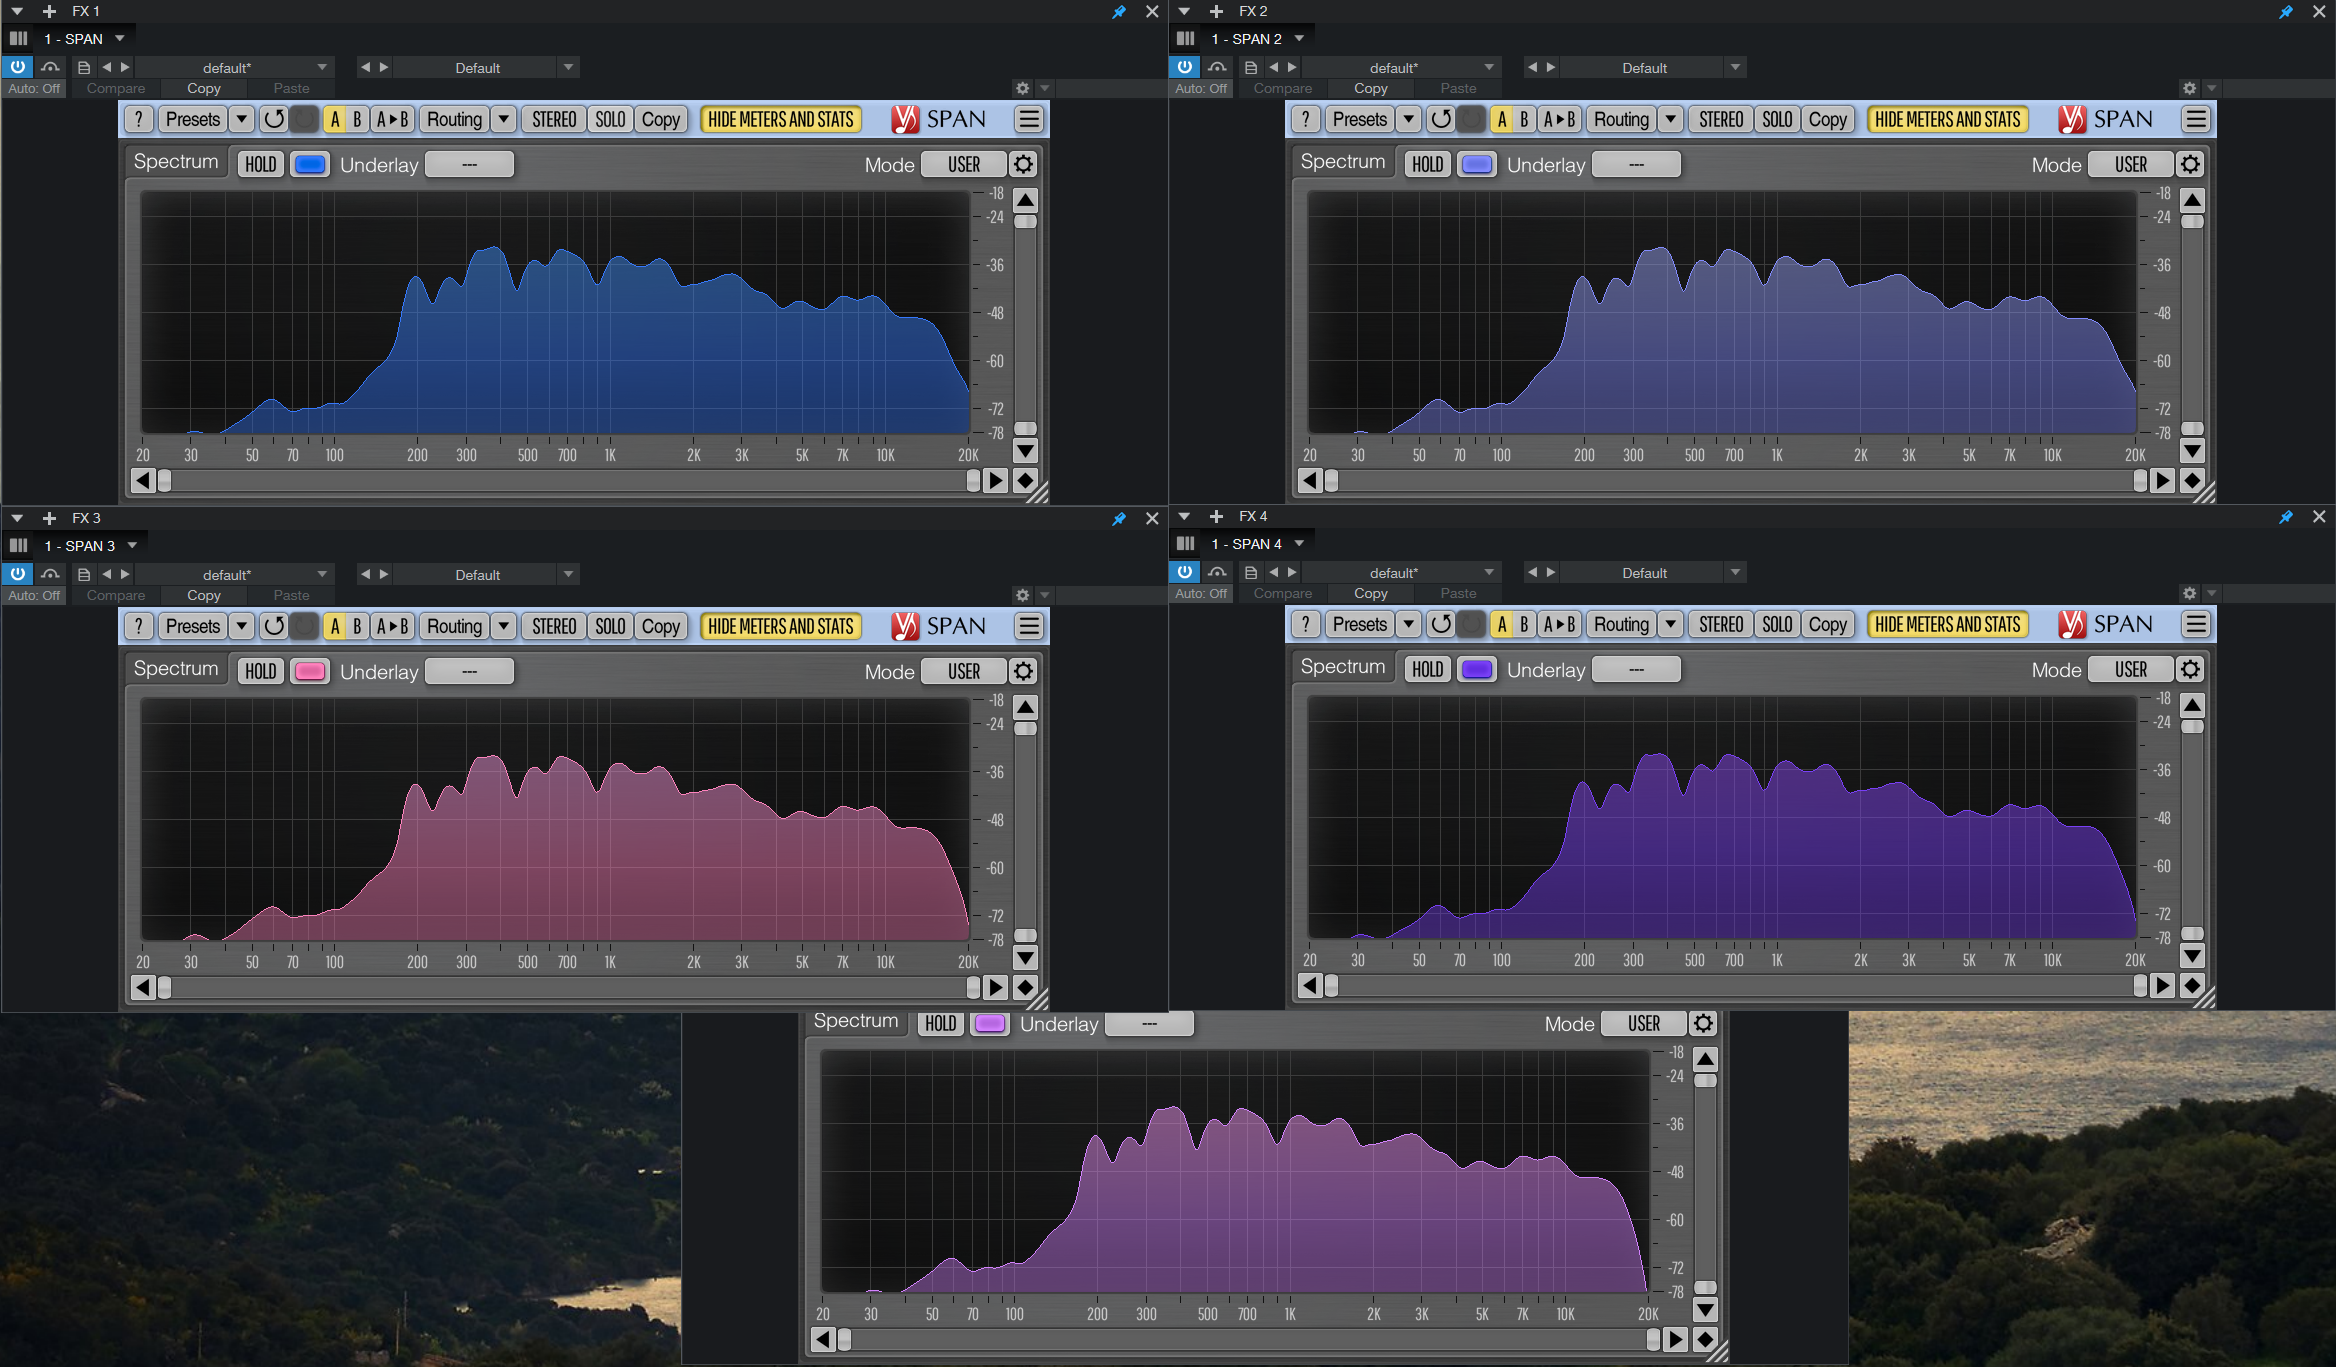
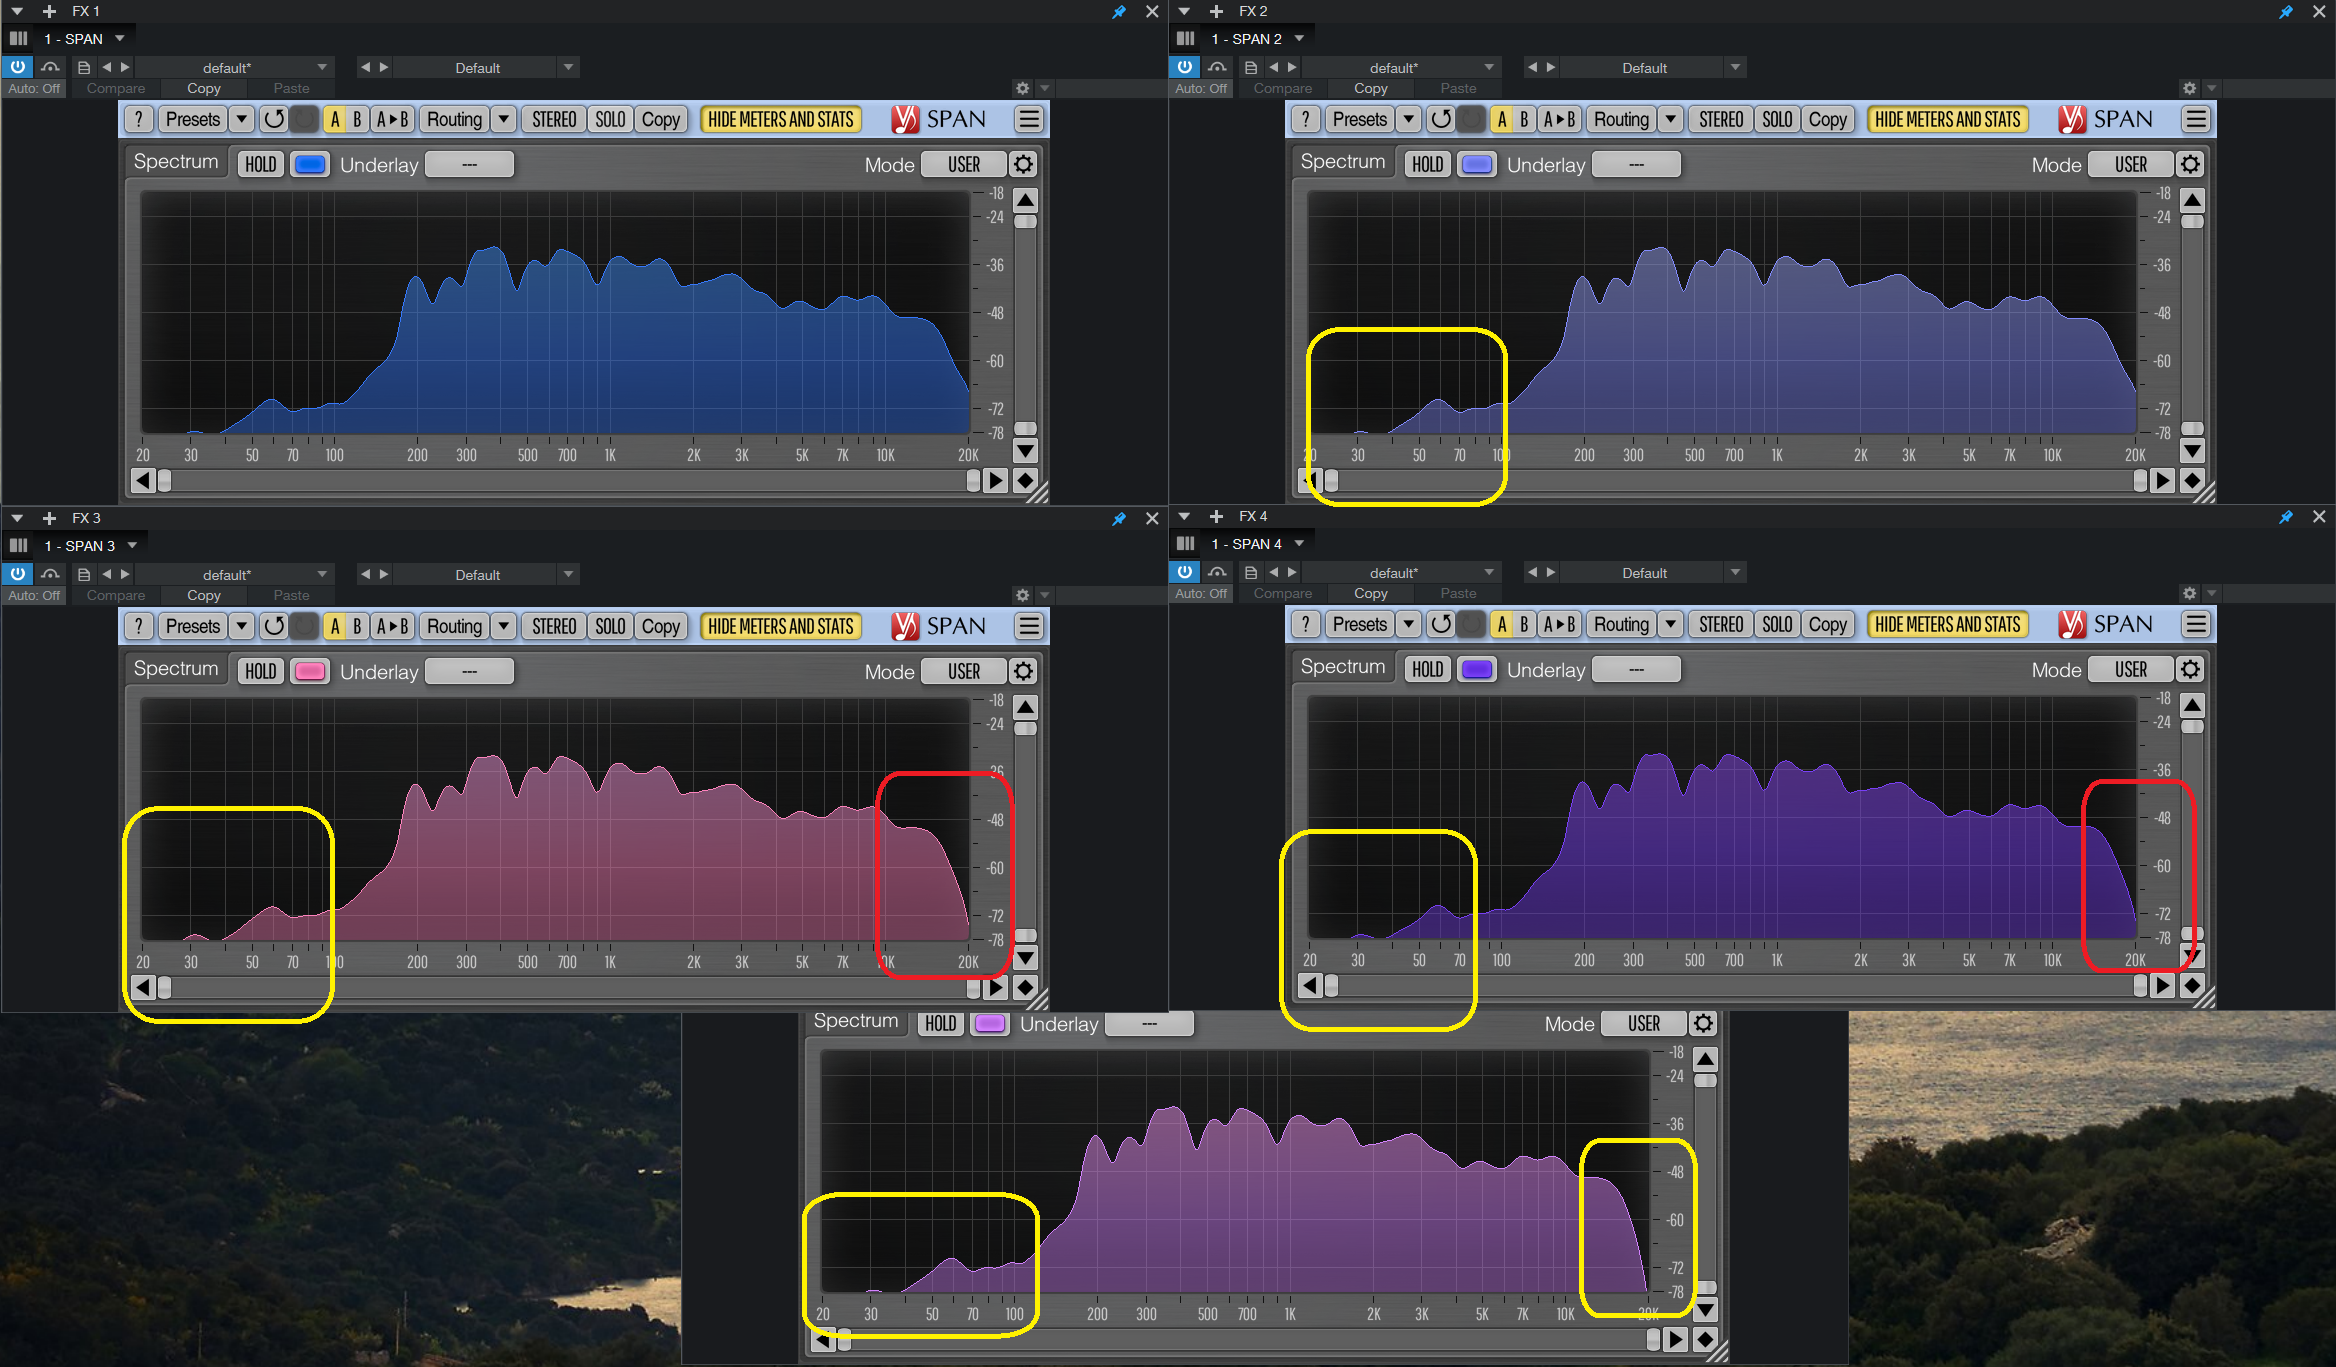
sgjkl nhwserklofg nm

diff --git a/content/posts/Self-Hosting-Music-Library-and-DSEE-Shenanigans.md b/content/posts/Self-Hosting-Music-Library-and-DSEE-Shenanigans.md
@@ -10,15 +10,17 @@ tags = [
 
 ## Introduction
 
-Recently, I have been hoarding music libraries and adding them to my Plex Server (self-hosted, and I already use it for Movies and TV Shows): Vodafone Internet sucks because of the frequent network outages in Germany. I am ensuring they are good-quality source files with either 16-bit FLAC or 24-bit FLAC. A downside of that is that it hogs a lot of storage space. Here is a screenshot of current music library I have hoarded so far.
+Recently, I have been hoarding music libraries and adding them to my Plex Server (self-hosted, and I already use it for Movies and TV Shows): Vodafone Internet sucks because of the frequent network outages in Germany. I am ensuring they are good-quality source files with either `16-bit FLAC` or `24-bit FLAC`. A downside of that is that it hogs a lot of storage space. Here is a screenshot of current music library I have hoarded so far.
 
 ![](/images/plexMusicLibraryStats.png)
 
 Can you guess how much storage space this takes up?
+{{< details summary="Here is the answer" >}}
+Approximately 450GB.
+{{< /details >}}
 
-ADD DROPDOWN TO SHOW ANSWER - 450GB.
 
-A big problem with self-hosting a media library is storage; and it fills up pretty fast. And storage is not cheap; it gets expensive pretty quickly. Why do I need high-quality files when streaming services do media compression? Does it matter that low audio quality makes the listening experience bad?
+A big problem with self-hosting a media library is storage; and it fills up pretty fast. And storage is not cheap; it gets expensive pretty quickly. Why do I need high-quality files when streaming services[^1][^2] do media compression? Does it matter that low audio quality makes the listening experience bad?
 
 ![](/images/spotify.png)
 ![](/images/apple.png)
@@ -29,7 +31,7 @@ If you have been to a live concert, you can see the singers or DJ using a specia
 
 ![](/images/audioSettings.png)
 
-I see DSEE Ultimate, Sony's proprietary up-scaling technology for music. So, I set out to do an experiment. I want to know if this up-scaling can make compressed audio formats sound close to Hi-Res Audio.
+I see DSEE Ultimate[^3], Sony's proprietary up-scaling technology for music. So, I set out to do an experiment. I want to know if this up-scaling can make compressed audio formats sound close to Hi-Res Audio.
 
 ## Generating Formats
 
@@ -43,23 +45,31 @@ Now, I want to generate other lossless and lossy files, namely: `16-bit FLAC`, `
 
 ### Convert 24-bit FLAC to 16-bit FLAC:
 
-ffmpeg -i input_24bit.flac -c:a flac -sample_fmt s16 -map_metadata 0 output_16bit.flac
+{{< highlight text >}}
+ffmpeg -i 24bit_sample.flac -c:a flac -sample_fmt s16 -map_metadata 0 output_16bit.flac
+{{< /highlight >}}
 
 ### Convert 24-bit FLAC to AAC:
 
-ffmpeg -i input_24bit.flac -c:a aac -b:a 192k -map_metadata 0 output.aac
+{{< highlight text >}}
+ffmpeg -i 24bit_sample.flac -c:a aac -b:a 192k -map_metadata 0 output.aac
+{{< /highlight >}}
 
 ### Convert 24-bit FLAC to MP3:
 
-ffmpeg -i input_24bit.flac -c:a libmp3lame -q:a 2 -map_metadata 0 output.mp3
+{{< highlight text >}}
+ffmpeg -i 24bit_sample.flac -c:a libmp3lame -q:a 2 -map_metadata 0 output.mp3
+{{< /highlight >}}
 
 ### Convert 24-bit FLAC to OGG:
 
-ffmpeg -i input_24bit.flac -c:a libvorbis -q:a 6 -map_metadata 0 output.ogg
+{{< highlight text >}}
+ffmpeg -i 24bit_sample.flac -c:a libvorbis -q:a 6 -map_metadata 0 output.ogg
+{{< /highlight >}}
 
 ### Explanation:
 
-- `-i input_24bit.flac`: Specifies the input file.
+- `-i 24bit_sample.flac`: Specifies the input file.
 - `-c:a`: Specifies the audio codec to be used.
   - `flac`, `aac`, `libmp3lame`, and `libvorbis` are the codecs for FLAC, AAC, MP3, and OGG respectively.
 - `-sample_fmt s16`: For FLAC conversion, this option specifies that the output should be in 16-bit format.
@@ -71,7 +81,7 @@ ffmpeg -i input_24bit.flac -c:a libvorbis -q:a 6 -map_metadata 0 output.ogg
 
 ![](/images/fileSizes.png)
 
-As you can see, from the original `43MB` the file sizes reduced drastically. A quick note: DSEE Ultimate is a CPU-intensive algorithm.
+As you can see, from the original `43MB` the file sizes reduced drastically. A quick note: DSEE Ultimate is a CPU-intensive algorithm and so is transcoding the audio.
 
 ## Setup - Hardware and Software
 
@@ -79,13 +89,13 @@ Sony smartphones come with a preloaded music player, just like the old Google Mu
 
 ![](/images/sonyMusicPlayer.png)
 
-The Sony Xperia 1 V comes with a decent DAC (Digital-to-Analog Converter), unlike the current flagship Sony Xperia 1 VII (which has a Walkman DAC, so much better than mine) and a `3.5mm` audio jack. So, I connected my IEM to this audio jack. If you don't have an audio-jack like mine does (you probably don't have one), you may try a Lightning/USB-C to `3.5mm` audio jack adapter based on the smartphone you own. Or if you are crazier than that, you may try this setup(FOOTNOTE TO THE CRAZY REDDIT POST) by connecting an external DAC to your smartphone. If you try this, it will melt your battery; I have warned you. Now we are ready to do the testing.
+The Sony Xperia 1 V comes with a decent DAC (Digital-to-Analog Converter), unlike the current flagship Sony Xperia 1 VII (which has a Walkman DAC, so much better than mine) and a `3.5mm` audio jack. So, I connected my IEM to this audio jack. If you don't have an audio-jack like mine does (you probably don't have one), you may try a Lightning/USB-C to `3.5mm` audio jack adapter based on the smartphone you own. Or if you are crazier than that, you may try this setup[^4] by connecting an external DAC to your smartphone. If you try this, it will melt your battery; I have warned you. Now we are ready to do the testing.
 
 ## Spectrum Analysis
 
 Prior to sharing the results with you; which are not scientific, and if you remember everything I wrote in this article, I am half-deaf, I would like to do an analysis that can show the differences to the different formats of audio we transcoded so far.
 
-Out of all the bad financial decisions I make every year, here is one. I own a copy of Presonus Studio One 6 Artist ADD FOOTNOTE. I also have a copy of SNAP - A Spectrum Analyzer pre-installed on my computer.
+Out of all the bad financial decisions I make every year, here is one. I own a copy of Presonus Studio One 6 Artist[^5]. I also have a copy of SNAP - A Spectrum Analyzer[^6] pre-installed on my computer.
 
 ![](/images/DAWSetup.png)
 
@@ -97,13 +107,13 @@ Here, the Frequency is smoothed out to 1/6th of the Octave; can't observe granul
 
 ![](/images/smoothSpecAnalysisSetting.png)
 
-Here is the playback: I attached the GIF file to display, but you can download the screen recording here.
+Here is the playback: I attached the GIF file to display, but you can download the screen recording [here](/downloads/smoothSpecAnalysis1.mkv).
 
 ![](/images/smoothSpecAnalysis1.gif)
 
 With keen eyes, you can observe the lower-end and the high-end frequencies being clipped in the `AAC`, `OGG VORBIS` and `MP3` formats. Here is the screenshot for better clarity.
 
-ADD SCREENSHOT OF SPEC ANALYSIS SMOOTH
+![](/images/smoothSpecAnalysis.png)
 
 In this, we can't visually tell the difference (at-lest for me) between `24-bit FLAC` and `16-bit FLAC`. We proceed with the second test.
 
@@ -117,25 +127,27 @@ Here is the output:
 
 ![](/images/rawSpecAnalysis1.gif)
 
-Again, video file is available here.
+Again, video file is available [here](/downloads/rawSpecAnalysis1.mkv).
+
+![](/images/rawSpecAnalysis.png)
 
 I can't distinguish between `24-bit FLAC` and `16-bit FLAC`. One reason is that we have set the average time to smooth the graph to 2500ms and our block size is smaller. Let us maximize the block size and reduce the average time to 100ms.
 
 ![](/images/highBitrateCompSetting.png)
 
-Here is the result, comparing only `24-bit FLAC` and `16-bit FLAC`. Again, here is the video file.
+Here is the result, comparing only `24-bit FLAC` and `16-bit FLAC`. Again, [here](/downloads/highBitrateComp.mkv) is the video file.
 
 ![](/images/highBitrateComp.gif)
 
 Only difference I can spot is, frequencies with low `dB` is clipped more in `16-bit FLAC` than `24-bit FLAC`.
 
-ADD IMAGE SHOWING THE DIFFERENCE
+![](/images/highBitrateComp.png)
 
 Time for a revelation: I am no audio engineer. Differences between `24-bit FLAC` and `16-bit FLAC` are present in noise floor, quantization round-offs, dynamic range and dithering. I am not experienced enough to spot such differences. So much for the scientific approach to distinguishing the differences.
 
 ## DSEE Ultimate
 
-DSEE Ultimate is a technology developed by Sony that stands for Digital Sound Enhancement Engine Ultimate. It is designed to upscale compressed audio files to near high-resolution audio quality. This technology aims to restore the high-frequency sounds lost during the compression process, providing a richer and more detailed audio experience. It is often featured in Sony's audio products, such as headphones and portable music players, to enhance the listening experience.
+DSEE Ultimate[^7][^8] is a technology developed by Sony that stands for Digital Sound Enhancement Engine Ultimate. It is designed to upscale compressed audio files to near high-resolution audio quality. This technology aims to restore the high-frequency sounds lost during the compression process, providing a richer and more detailed audio experience. It is often featured in Sony's audio products, such as headphones and portable music players, to enhance the listening experience.
 
 ![](/images/dseeUltimate.png)
 
@@ -146,3 +158,12 @@ Now, I played all the audio formats in a lot of permutations and combinations to
 ## What I Want To Do?
 
 After this brief experiment, I have decided to keep hoarding `24-bit FLAC` for my favourite music, and only settle for `AAC` or `MP3` when there is no lossless format available to purchase (NNWW). Since DSEE Ultimate is capable to up-scale the lossy-compressed audio file, I am going to rely on that for cases when I can't have the best quality. I thought I am not gonna like to hear music with all instruments audible clearly; clearly I was wrong. If you made it this far, I hope this article is of some use to you.
+
+[^1]: https://support.spotify.com/us/article/audio-quality/
+[^2]: https://support.apple.com/en-us/118295
+[^3]: https://www.sony.co.uk/electronics/support/articles/00230269
+[^4]: https://www.reddit.com/r/DigitalAudioPlayer/s/kmHtVrzyX9
+[^5]: https://www.presonus.com/pages/studio-one-pro
+[^6]: https://www.voxengo.com/product/span/features/#nav-tabs
+[^7]: https://www.reddit.com/r/sony/comments/j604yi/what_is_the_difference_between_dsee_extreme_dsee/?rdt=61105
+[^8]: https://www.audiosciencereview.com/forum/index.php?threads/what-does-dsee-hx-ai-dsee-ultimate-dsee-extreme-do.14832/
